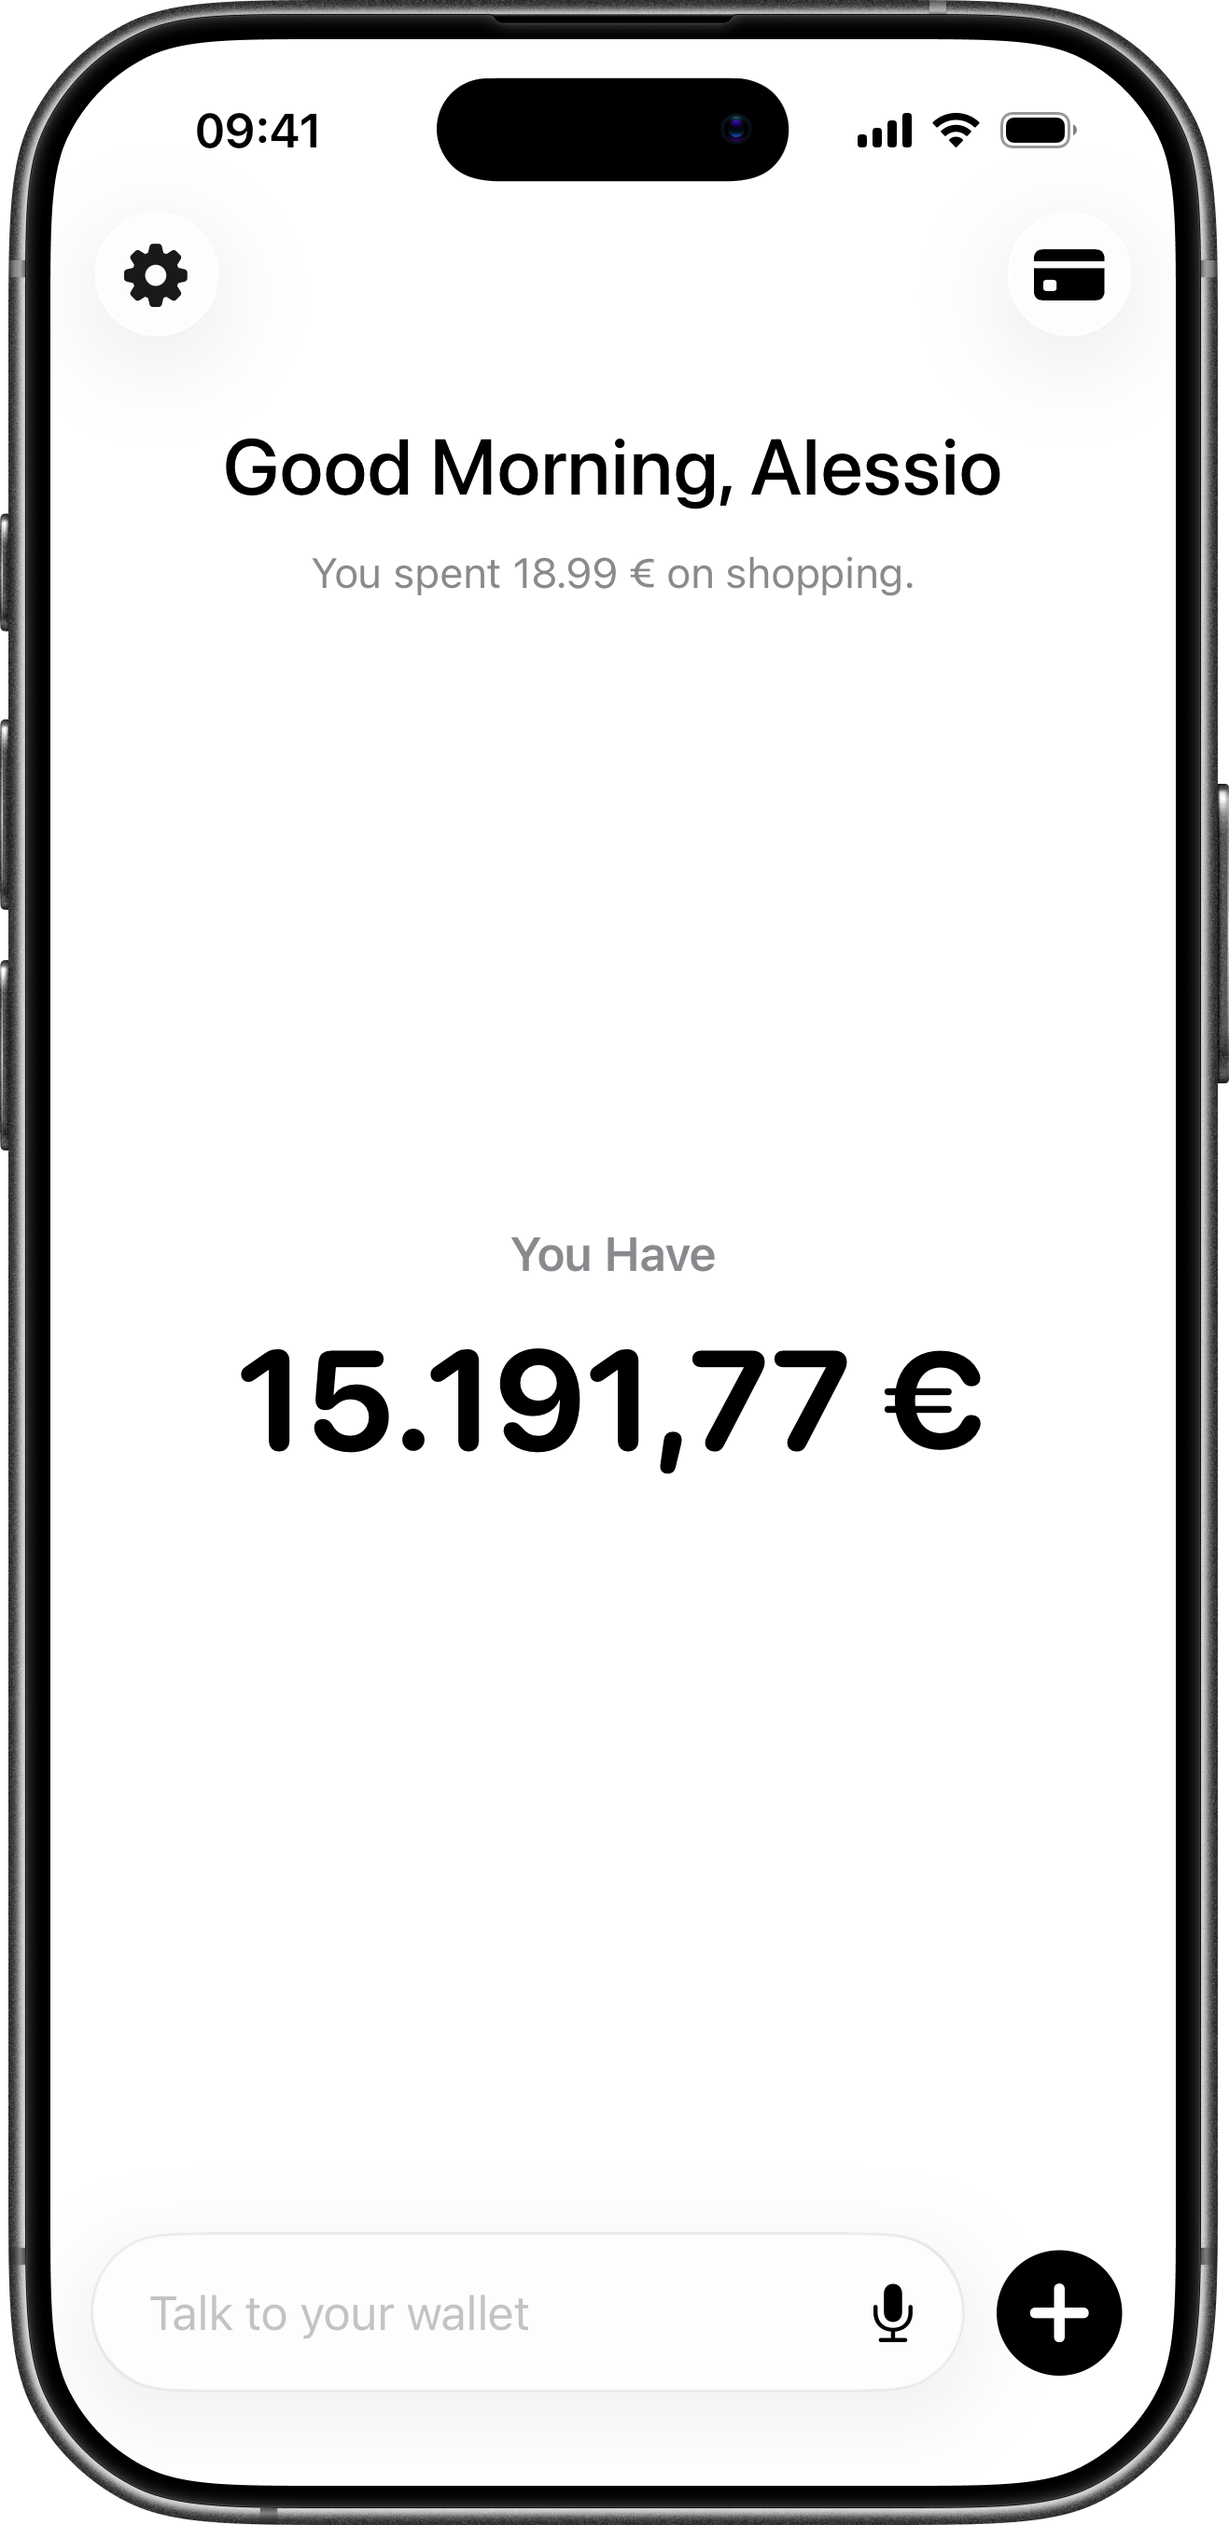
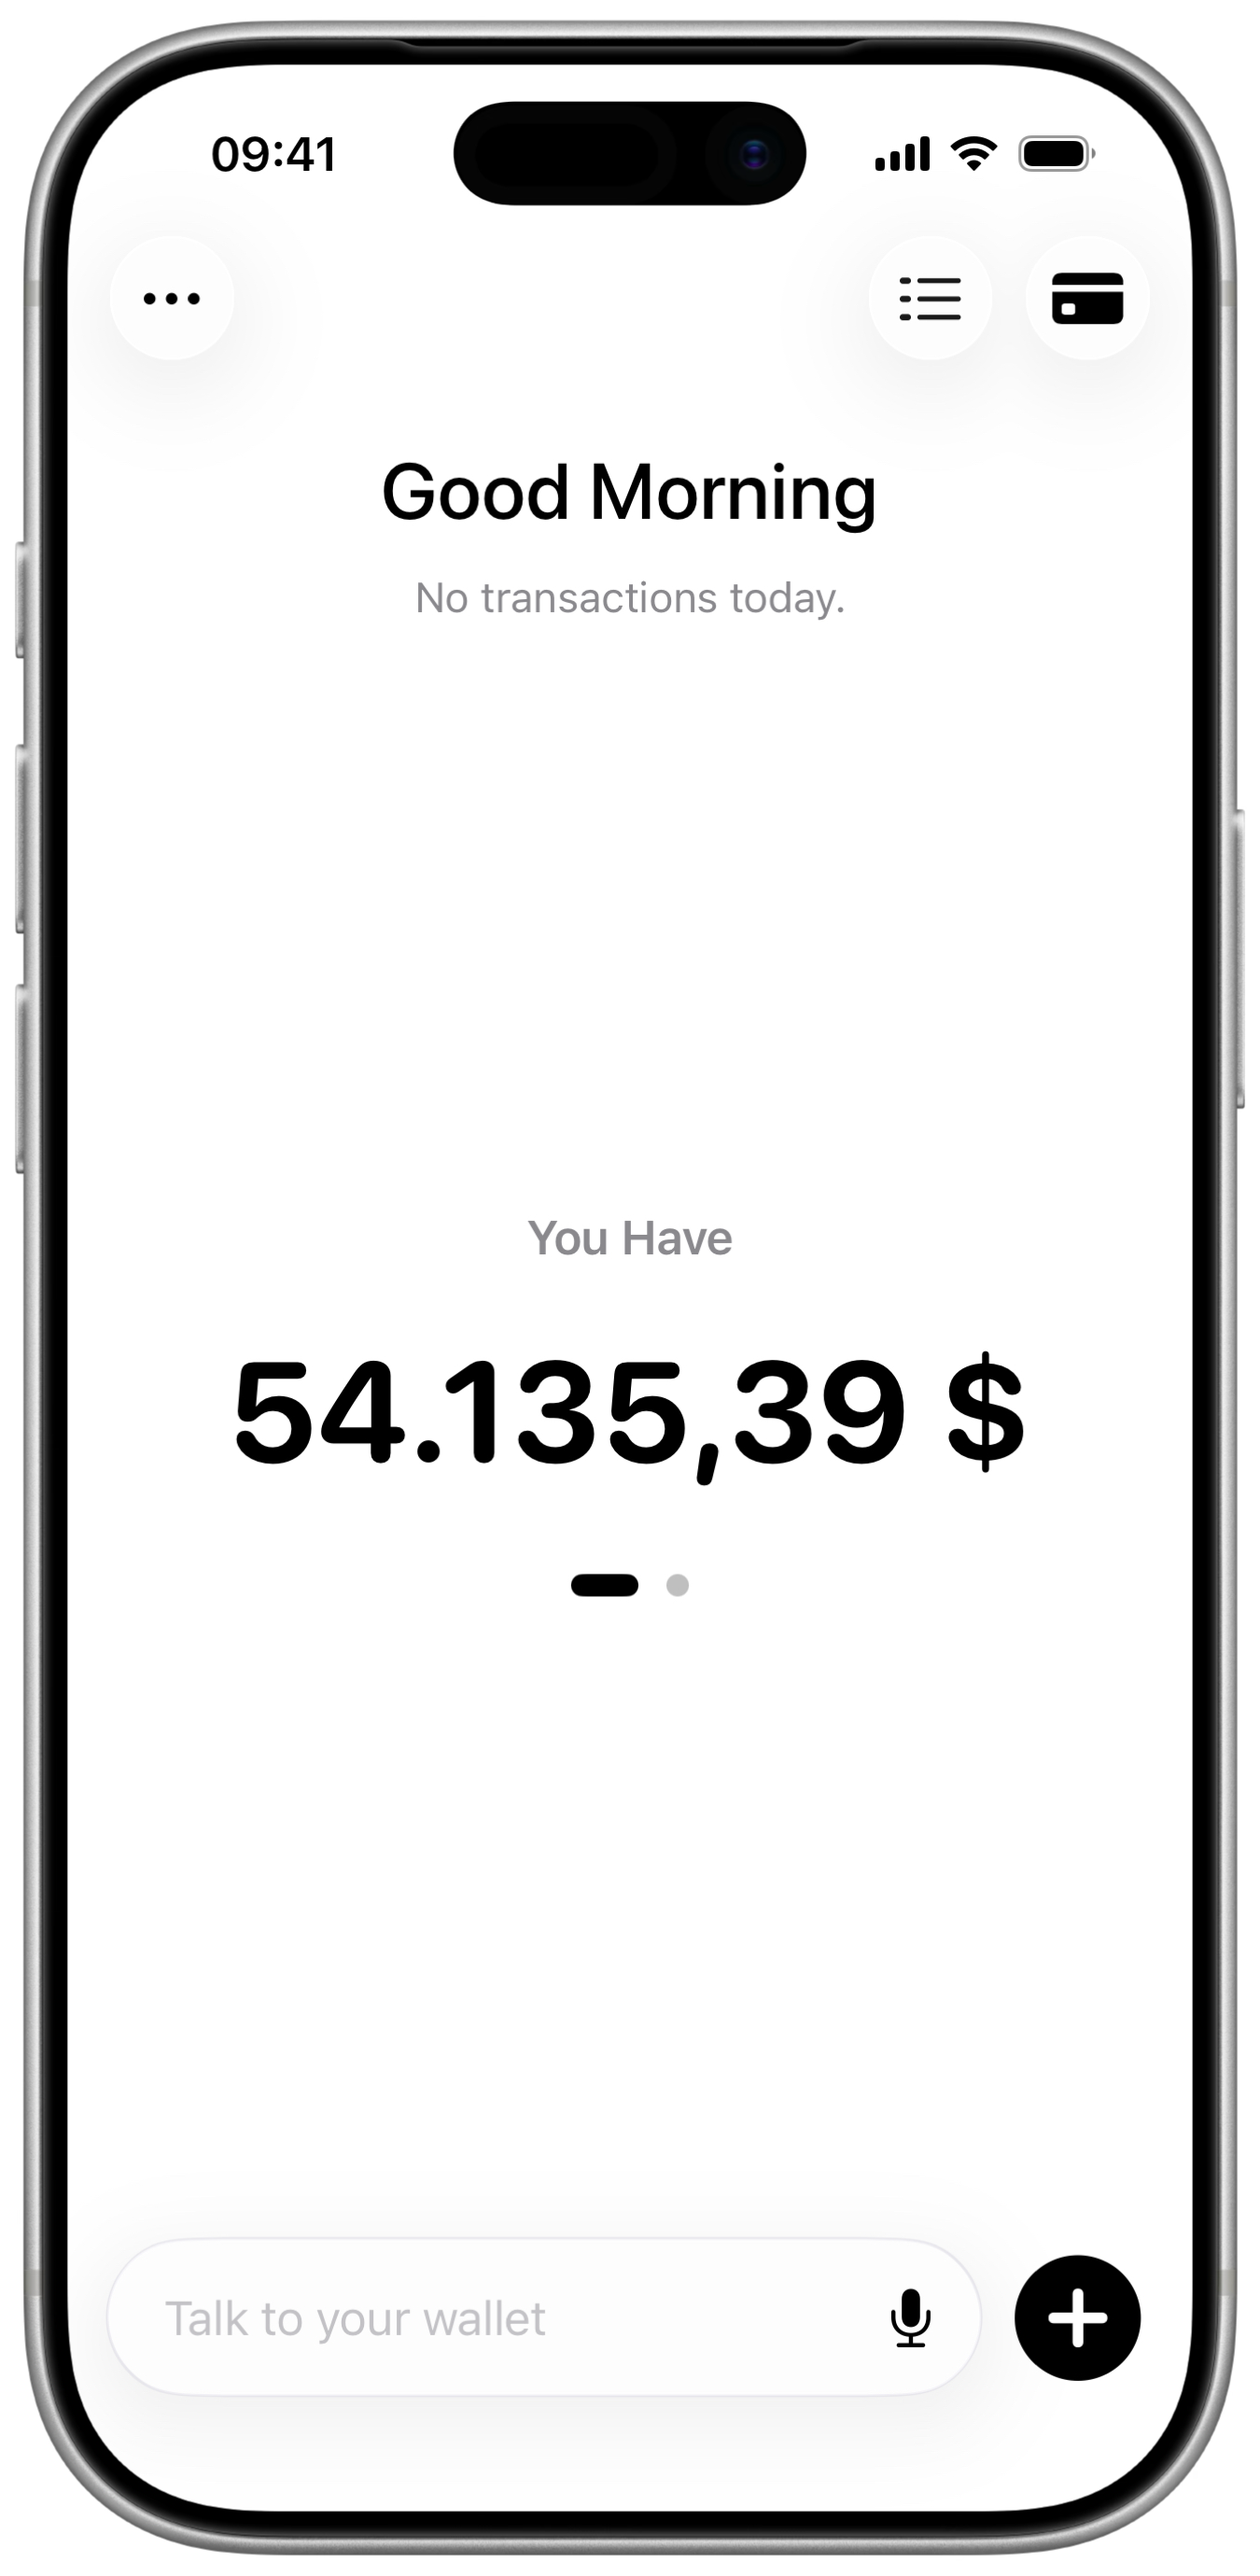
Updated Fynn page

diff --git a/src/fynn/fynn.css b/src/fynn/fynn.css
@@ -3,7 +3,7 @@ body.fynn-page.project-page {
 }
 
 .fynn-page {
-  font-family: "Onest", ui-sans-serif, -apple-system, BlinkMacSystemFont, "Helvetica Neue", Helvetica, Arial, sans-serif;
+  font-family: "Inter", ui-sans-serif, system-ui, -apple-system, BlinkMacSystemFont, "Segoe UI", Roboto, Helvetica, Arial, sans-serif;
   --fynn-ink: var(--primaryText);
   --fynn-paper: var(--backgroundColor);
   --fynn-muted: var(--secondaryText);
@@ -20,6 +20,7 @@ body.fynn-page.project-page {
 
 body.fynn-page.project-page .hero {
   align-items: flex-start;
+
   padding: calc(var(--lineHeight) * 3) 0 calc(var(--lineHeight) * 1);
   text-align: left;
 }
@@ -42,7 +43,6 @@ body.fynn-page.project-page .phone {
   max-width: 300px;
   height: auto;
   object-fit: contain;
-  filter: drop-shadow(0 24px 56px color(from black srgb r g b / 0.28));
 }
 
 @media screen and (min-width: 800px) {
@@ -156,7 +156,7 @@ body.fynn-page.project-page .phone {
 }
 
 .fynn-shortcuts-page .features-list li.feature-item,
-.fynn-shortcuts-page .instruction-steps > li::before,
+.fynn-shortcuts-page .instruction-steps>li::before,
 .fynn-feedback-page .feedback-card {
   border-color: var(--fynn-border);
   background: var(--fynn-surface);

diff --git a/src/fynn/index.html b/src/fynn/index.html
@@ -33,7 +33,7 @@
     <meta name="twitter:site" content="@alessiorubicini">
 
     <link rel="canonical" href="https://alessiorubicini.github.io/fynn"/>
-    <link rel="stylesheet" href="https://fonts.googleapis.com/css2?family=Onest:wght@300;400;500;600;700&amp;display=swap">
+    <link rel="stylesheet" href="https://fonts.googleapis.com/css2?family=Inter:wght@300;400;500;600;700&amp;display=swap">
     <link rel="stylesheet" href="/styles.css">
     <link rel="stylesheet" href="/subpage-styles.css">
     <link rel="stylesheet" href="/fynn/fynn.css">

diff --git a/src/fynn/feedback.html b/src/fynn/feedback.html
@@ -11,7 +11,7 @@
     <meta name="author" content="Alessio Rubicini">
 
     <link rel="canonical" href="https://alessiorubicini.github.io/fynn/feedback.html">
-    <link rel="stylesheet" href="https://fonts.googleapis.com/css2?family=Onest:wght@300;400;500;600;700&amp;display=swap">
+    <link rel="stylesheet" href="https://fonts.googleapis.com/css2?family=Inter:wght@300;400;500;600;700&amp;display=swap">
     <link rel="stylesheet" href="/styles.css">
     <style>
       body.project-page {

diff --git a/src/fynn/privacy-policy.html b/src/fynn/privacy-policy.html
@@ -11,7 +11,7 @@
     <meta name="author" content="Alessio Rubicini"/>
 
     <link rel="canonical" href="https://alessiorubicini.com/fynn/privacy-policy"/>
-    <link rel="stylesheet" href="https://fonts.googleapis.com/css2?family=Onest:wght@300;400;500;600;700&amp;display=swap">
+    <link rel="stylesheet" href="https://fonts.googleapis.com/css2?family=Inter:wght@300;400;500;600;700&amp;display=swap">
     <link rel="stylesheet" href="/styles.css">
     <style>
 	.privacy-page {

diff --git a/src/fynn/terms-of-use.html b/src/fynn/terms-of-use.html
@@ -11,7 +11,7 @@
     <meta name="author" content="Alessio Rubicini"/>
 
     <link rel="canonical" href="https://alessiorubicini.com/fynn/terms-of-use"/>
-    <link rel="stylesheet" href="https://fonts.googleapis.com/css2?family=Onest:wght@300;400;500;600;700&amp;display=swap">
+    <link rel="stylesheet" href="https://fonts.googleapis.com/css2?family=Inter:wght@300;400;500;600;700&amp;display=swap">
     <link rel="stylesheet" href="/styles.css">
     <style>
 	.terms-page {

diff --git a/src/fynn/shortcuts.html b/src/fynn/shortcuts.html
@@ -22,7 +22,7 @@
     <meta property="og:locale" content="en_US">
 
     <link rel="canonical" href="https://alessiorubicini.github.io/fynn/shortcuts"/>
-    <link rel="stylesheet" href="https://fonts.googleapis.com/css2?family=Onest:wght@300;400;500;600;700&amp;display=swap">
+    <link rel="stylesheet" href="https://fonts.googleapis.com/css2?family=Inter:wght@300;400;500;600;700&amp;display=swap">
     <link rel="stylesheet" href="/styles.css">
     
     <style>
